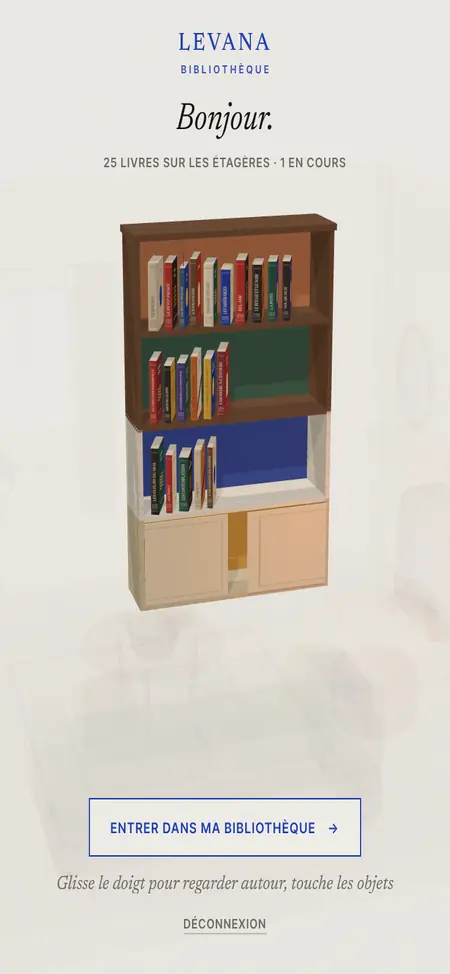
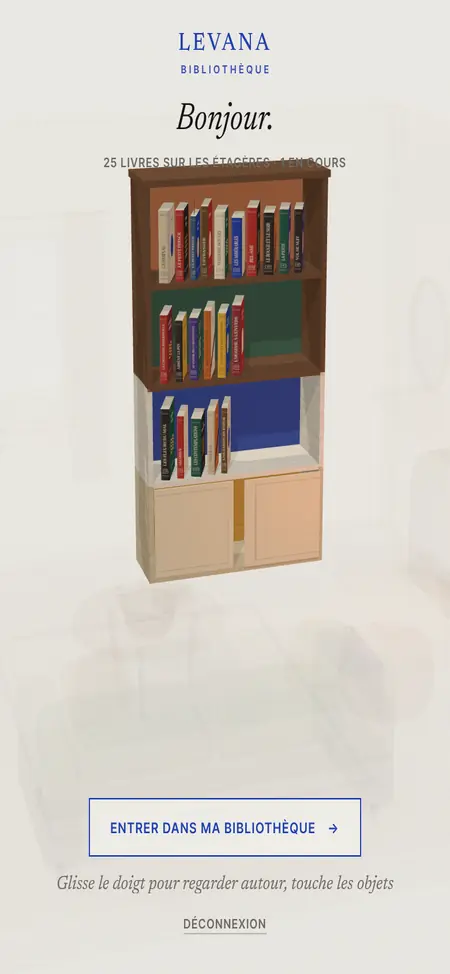
Téléphone : menu en bas comme une appli, rien en haut, étagères sans défilement
- Plus de défilement sur le côté : toute l'étagère tient dans la largeur ;
  les livres se serrent, puis rapetissent un peu sur une étagère très
  remplie (aussi sur ordinateur).
- Menu en bas, comme une appli : Salon, Chercher (retrouver un livre et
  « ranger par »), la Boutique au centre (gros bouton bleu), Étagères, et
  Panier avec le nombre de livres (il sort les livres en bas de l'écran).
- En haut, plus rien (ni logo ni boutons) : le mur prend toute la hauteur ;
  « Sommaire » et « Tout voir » deviennent deux ronds posés sur le mur.
- Le tuto de la télé suit le nouveau menu (textes et captures).

Claude-Session: https://claude.ai/code/session_01Tg9JuQWn64WBjX1JtYF8aa

Changed region(s): [[0.2489, 0.154, 0.7467, 0.6468]]

diff --git a/src/App.jsx b/src/App.jsx
@@ -73,6 +73,7 @@ function Library({ user, onSignOut }) {
   const [search, setSearch] = useState(false)
   const [searchOpen, setSearchOpen] = useState(false)
   const [scanner, setScanner] = useState(false)
+  const [findOpen, setFindOpen] = useState(false)   // téléphone : « Chercher » (retrouver un livre, ranger par)
   const [guide, setGuide] = useState(false)     // livres du panier sortis en bas de l'écran, prêts à ranger
   // salon d'accueil : 'first' à l'arrivée, 'back' quand on y retourne, null dans la bibliothèque
   const [salon, setSalon] = useState(() => (HAS_WEBGL && !salonSeen() ? 'first' : null))
@@ -263,7 +264,7 @@ function Library({ user, onSignOut }) {
           shelves={shelves} commitShelves={commitShelves} newShelfSignal={newShelfSignal}
           onOpen={openBook} onAdd={openSearch} locked={overlay} apiRef={bookcaseApi}
           onShelfClick={id => setShelvesOpen({ id })}
-          aside={basket.items.length > 0 ? (
+          aside={basket.items.length > 0 && !mobile ? (
             <BasketTray
               items={basket.items} shelves={effShelves} books={books} api={bookcaseApi} mobile={mobile}
               canDrop={HAS_WEBGL && manual} open={guide} onOpen={() => setGuide(true)} onClose={() => setGuide(false)}
@@ -272,6 +273,62 @@ function Library({ user, onSignOut }) {
           ) : null}
           highlightId={highlightId} focusId={focusId} onFocused={onFocused} emptyText={emptyText}
         />
+      )}
+
+      {/* Téléphone : le panier s'ouvre depuis l'onglet « Panier » (pas de panier sous le mur) */}
+      {mobile && basket.items.length > 0 && (
+        <BasketTray
+          bare items={basket.items} shelves={effShelves} books={books} api={bookcaseApi} mobile
+          canDrop={HAS_WEBGL && manual} open={guide} onOpen={() => setGuide(true)} onClose={() => setGuide(false)}
+          onDropBook={dropFromBasket} onPlace={placeGuided} onOpenBook={b => onPick(b, null)}
+        />
+      )}
+
+      {/* Téléphone : menu en bas, comme une appli (pas dans le salon, qui a le sien) */}
+      {mobile && !salon && (
+        <>
+          {findOpen && (
+            <div className="find-sheet grain" onPointerDown={e => e.stopPropagation()}>
+              <LibrarySearch books={books} shelves={effShelves} autoFocus up onPick={id => { setFindOpen(false); setFocusId(id) }} />
+              <label className="lbl find-sort">
+                <span>Ranger par</span>
+                <select value={sort} onChange={e => setSort(e.target.value)}>
+                  {SORTS.map(o => <option key={o.id} value={o.id}>{o.label}</option>)}
+                </select>
+              </label>
+            </div>
+          )}
+          {findOpen && <div className="find-backdrop" onPointerDown={() => setFindOpen(false)} />}
+          <nav className="tabbar" aria-label="Menu">
+            {HAS_WEBGL && (
+              <button type="button" className="tab" onClick={() => { setFindOpen(false); setGuide(false); setSalon('back') }}>
+                <svg viewBox="0 0 24 24" aria-hidden="true"><path d="M3.5 11.2L12 4l8.5 7.2M6 9.8V20h12V9.8M10 20v-5.5h4V20" /></svg>
+                <span>Salon</span>
+              </button>
+            )}
+            <button type="button" className={'tab' + (findOpen ? ' on' : '')} onClick={() => setFindOpen(o => !o)}>
+              <svg viewBox="0 0 24 24" aria-hidden="true"><circle cx="10.5" cy="10.5" r="6" /><path d="M15 15l5 5" /></svg>
+              <span>Chercher</span>
+            </button>
+            <button type="button" className="tab tab-shop" onClick={() => { setFindOpen(false); openSearch() }} aria-label="Boutique : ajouter des livres">
+              <span className="tab-shop-bubble">
+                <svg viewBox="0 0 24 24" aria-hidden="true"><path d="M5 8h14l-1.2 12H6.2L5 8zM9 8V6.5a3 3 0 016 0V8" /><path d="M12 11.5v5M9.5 14h5" /></svg>
+              </span>
+              <span>Boutique</span>
+            </button>
+            <button type="button" className={'tab' + (shelvesOpen ? ' on' : '')} onClick={() => { setFindOpen(false); setShelvesOpen({ id: null }) }}>
+              <svg viewBox="0 0 24 24" aria-hidden="true"><path d="M4 4v16M20 4v16M4 9h16M4 14.5h16M4 20h16M7 9V6M9 9V5.5M12 14.5v-3.5M14.5 14.5v-3" /></svg>
+              <span>Étagères</span>
+            </button>
+            <button type="button" className={'tab' + (guide ? ' on' : '')} onClick={() => { setFindOpen(false); if (basket.items.length) setGuide(g => !g); else openSearch() }}>
+              <span className="tab-ico">
+                <svg viewBox="0 0 24 24" aria-hidden="true"><path d="M3.5 10h17l-1.8 9.5H5.3L3.5 10zM8 10l3-5.5M16 10l-3-5.5M8.5 13.5v3M12 13.5v3M15.5 13.5v3" /></svg>
+                {basket.items.length > 0 && <span className="tab-badge" key={basket.items.length}>{basket.items.length}</span>}
+              </span>
+              <span>Panier</span>
+            </button>
+          </nav>
+        </>
       )}
 
       <footer className="footer-bar">

diff --git a/src/styles.css b/src/styles.css
@@ -1345,3 +1345,63 @@ canvas { -webkit-user-select: none; user-select: none; -webkit-touch-callout: no
   .salon-out { font-size: 9px; }
 }
 .add-btn { gap: 5px; }
+
+/* Téléphone : comme une appli — rien en haut, un menu en bas ------------------------------ */
+.tabbar, .find-sheet, .find-backdrop { display: none; }
+@media (max-width: 767px) {
+  .top-bar, .scene-tabs { display: none !important; }
+  .scene { padding-top: env(safe-area-inset-top, 0px); padding-bottom: calc(64px + env(safe-area-inset-bottom, 0px)); }
+  /* le bas de la bibliothèque : seulement Sommaire et Tout voir, posés sur le mur */
+  .scene-bottom { position: fixed; left: 0; right: 0; bottom: calc(72px + env(safe-area-inset-bottom, 0px)); z-index: 4; padding: 0 12px; pointer-events: none; }
+  .scene-bottom > * { pointer-events: auto; }
+  .scene-bottom .scene-caption { visibility: hidden; }
+  .scene-bottom .zoom-btn, .scene-bottom .toc-btn { background: var(--sheet); width: 40px; height: 40px; padding: 0; justify-content: center; border-radius: 50%; box-shadow: 0 6px 14px -8px rgba(20, 16, 10, 0.5); }
+  .tabbar {
+    position: fixed; left: 0; right: 0; bottom: 0; z-index: 56; display: grid; grid-template-columns: repeat(5, 1fr); align-items: end;
+    height: calc(64px + env(safe-area-inset-bottom, 0px)); padding: 0 6px env(safe-area-inset-bottom, 0px);
+    background-color: var(--sheet); border-top: 1px solid var(--rule-soft); box-shadow: 0 -10px 30px -22px rgba(20, 16, 10, 0.45);
+  }
+  .tab {
+    display: flex; flex-direction: column; align-items: center; justify-content: center; gap: 4px; height: 64px; color: var(--muted);
+    font-family: var(--sans); font-weight: 600; font-size: 9.5px; letter-spacing: 0.06em; text-transform: uppercase;
+    -webkit-tap-highlight-color: transparent; transition: color 0.2s;
+  }
+  .tab svg { width: 24px; height: 24px; fill: none; stroke: currentColor; stroke-width: 1.6; stroke-linecap: round; stroke-linejoin: round; transition: transform 0.3s cubic-bezier(.3, 1.6, .5, 1); }
+  .tab:active svg { transform: scale(0.86); }
+  .tab.on { color: var(--cobalt); }
+  .tab-ico { position: relative; display: inline-flex; }
+  .tab-badge {
+    position: absolute; top: -5px; right: -9px; min-width: 17px; height: 17px; padding: 0 4px; border-radius: 9px;
+    background: #C9614F; color: #fff; font-size: 9.5px; letter-spacing: 0; display: inline-flex; align-items: center; justify-content: center;
+    animation: countPop 0.5s cubic-bezier(.3, 1.8, .5, 1);
+  }
+  .tab-shop { color: var(--cobalt); }
+  .tab-shop-bubble {
+    display: inline-flex; align-items: center; justify-content: center; width: 54px; height: 54px; margin-top: -22px; border-radius: 50%;
+    background: var(--cobalt); color: #fff; box-shadow: 0 10px 20px -8px rgba(31, 63, 176, 0.65); border: 4px solid var(--sheet);
+    transition: transform 0.3s cubic-bezier(.3, 1.6, .5, 1);
+  }
+  .tab-shop:active .tab-shop-bubble { transform: scale(0.9); }
+  .tab-shop svg { width: 26px; height: 26px; }
+  .find-backdrop { display: block; position: fixed; inset: 0; z-index: 55; background: rgba(20, 16, 10, 0.18); }
+  .find-sheet {
+    display: flex; flex-direction: column; gap: 14px; position: fixed; left: 0; right: 0; z-index: 56;
+    bottom: calc(64px + env(safe-area-inset-bottom, 0px)); padding: 16px 16px 14px;
+    background-color: var(--sheet); border-top: 1px solid var(--rule); box-shadow: 0 -18px 30px -22px rgba(20, 16, 10, 0.45);
+    animation: findUp 0.4s cubic-bezier(.3, 1.2, .45, 1) both;
+  }
+  @keyframes findUp { from { transform: translateY(100%); } }
+  .find-sheet .lib-search { width: 100%; }
+  .find-sheet .lib-search input, .find-sheet .lib-search input:focus { width: 100%; height: 38px; font-size: 18px; padding-left: 24px; }
+  .find-sheet .ls-icon { width: 15px; height: 15px; }
+  .lib-search.up .ls-pop { top: auto; bottom: calc(100% + 10px); left: 0; transform: none; width: 100%; }
+  .find-sort { display: flex; align-items: center; justify-content: space-between; gap: 10px; color: var(--muted); }
+  .find-sort select { height: 34px; padding: 0 10px; border: 1px solid var(--rule); background: transparent; font-family: var(--sans); font-weight: 600; font-size: 11px; letter-spacing: 0.08em; text-transform: uppercase; color: var(--ink); }
+  /* rangée du panier : posée au-dessus du menu */
+  .tray { z-index: 57; }
+}
+@media (max-width: 767px) {
+  /* sans la barre du haut, le mur occupe toute la hauteur au-dessus du menu */
+  .scene { grid-template-rows: minmax(0, 1fr); }
+  .scene > .case-row, .scene > .scene-loading { grid-row: 1; }
+}

diff --git a/src/three/BookcaseScene.js b/src/three/BookcaseScene.js
@@ -341,7 +341,6 @@ export class BookcaseScene {
     const base = this.bases.get(id)
     if (!base) return false
     this.scrollToRow(base.row)
-    this._revealInRow(id)
     clearTimeout(this.spotTimer)
     this.spotTimer = setTimeout(() => {
       const e = this.books.get(id)
@@ -583,19 +582,29 @@ export class BookcaseScene {
     this.rowEnds = []
     this.rowsData.forEach((row, r) => {
       const y0 = this.rowBase(r)
-      const items = row.books.map(b => (b.placeholder ? { ph: true, t: AVG_T * 1.2, d: 0.6 } : { b, ...bookDims(b) }))
-      let need = 0
-      items.forEach((it, i) => { need += i ? (items[i - 1].t + it.t) / (2 * cb) : 0 })
-      const first = items[0] ? (items[0].t * cb + items[0].d * sb) / 2 : 0
-      const lastExt = items.length ? (items[items.length - 1].t * cb + items[items.length - 1].d * sb) / 2 : 0
-      const avail = CW - PADX - 0.12 - first - lastExt - need
-      const gap = this.layout.mobile ? GAP : items.length > 1 ? Math.max(0.012, Math.min(GAP, avail / (items.length - 1))) : GAP
+      const raw = row.books.map(b => (b.placeholder ? { ph: true, t: AVG_T * 1.2, d: 0.6, h: 0 } : { b, ...bookDims(b) }))
+      const span = list => {
+        let need = 0
+        list.forEach((it, i) => { need += i ? (list[i - 1].t + it.t) / (2 * cb) : 0 })
+        const first = list[0] ? (list[0].t * cb + list[0].d * sb) / 2 : 0
+        const lastExt = list.length ? (list[list.length - 1].t * cb + list[list.length - 1].d * sb) / 2 : 0
+        return { need, first, lastExt }
+      }
+      // toute l'étagère tient dans la largeur : les livres se serrent, puis rapetissent s'il le faut
+      const MIN_GAP = 0.012, room = CW - PADX - 0.12
+      const s0 = span(raw)
+      const full = s0.need + s0.first + s0.lastExt
+      const k = raw.length > 1 && full + MIN_GAP * (raw.length - 1) > room ? clamp((room - MIN_GAP * (raw.length - 1)) / full, 0.4, 1) : 1
+      const items = k < 1 ? raw.map(it => ({ ...it, t: it.t * k, d: it.d * k, h: it.h * k })) : raw
+      const { need, first, lastExt } = k < 1 ? span(items) : s0
+      const avail = room - first - lastExt - need
+      const gap = items.length > 1 ? Math.max(MIN_GAP, Math.min(GAP, avail / (items.length - 1))) : GAP
       let x = -CW / 2 + PADX + first
       items.forEach((it, i) => {
         if (i) x += (items[i - 1].t + it.t) / (2 * cb) + gap
         if (it.ph) return
         const zSpine = SD / 2 - 0.045
-        this.bases.set(it.b.id, { x, y: y0 + it.h / 2, z: zSpine - (it.d / 2) * cb, row: r })
+        this.bases.set(it.b.id, { x, y: y0 + it.h / 2, z: zSpine - (it.d / 2) * cb, row: r, k })
       })
       this.rowEnds[r] = items.length ? x + lastExt : -CW / 2 + PADX
     })
@@ -642,6 +651,7 @@ export class BookcaseScene {
       if (!base) continue
       e.base = { x: base.x, y: base.y, z: base.z }
       e.row = base.row
+      e.wrap.scale.setScalar(base.k || 1)     // étagère très remplie : livres un peu plus petits
       if (created) {
         const drop = this.intro || this.freshIds.has(id) ? Math.min(0.2, RH - e.h - 0.02) : 0
         e.x.snap(base.x); e.z.snap(base.z); e.yaw.snap(-BETA)
@@ -705,12 +715,7 @@ export class BookcaseScene {
       if (!p.moved && dist > (p.type === 'mouse' ? 6 : 10)) {
         p.moved = true
         clearTimeout(p.timer)
-        // téléphone : un geste plutôt horizontal sur une rangée trop longue la fait défiler
-        if (this.layout?.mobile && p.row != null && this._overflows(p.row) && Math.abs(e.clientX - p.x) > Math.abs(e.clientY - p.y)) {
-          const sp = this._offSpring(p.row)
-          p.panX = { r: p.row, x: e.clientX, off: sp.v, lastX: e.clientX, lastT: performance.now(), vel: 0 }
-          this._setHover(null)
-        }
+
         if (!p.panX && p.id && p.type === 'mouse' && this.cb.canDrag?.() && this.zoom.t > 0.5) { this.onHoverMove(e); this._startDrag(); return }
         if (p.panX) return
         // sinon on fait défiler le mur (on le « tire » du doigt ou de la souris)

diff --git a/src/components/Basket.jsx b/src/components/Basket.jsx
@@ -258,7 +258,7 @@ export function ShelfBasket({ items, shelves, defaultShelf, canDrop, api, mobile
  * en bas de l'écran. On glisse un livre sur une étagère (une place s'ouvre), ou on touche son
  * « + » pour choisir l'étagère (la plus probable en premier).
  */
-export function BasketTray({ items, shelves, books, api, mobile, canDrop, open, onOpen, onClose, onDropBook, onPlace, onOpenBook }) {
+export function BasketTray({ items, shelves, books, api, mobile, canDrop, open, onOpen, onClose, onDropBook, onPlace, onOpenBook, bare = false }) {
   const real = useMemo(() => shelves.filter(s => !s.pseudo), [shelves])
   const byId = useMemo(() => new Map(books.map(b => [b.id, b])), [books])
   const [picker, setPicker] = useState(null)        // livre dont on choisit l'étagère
@@ -350,18 +350,7 @@ export function BasketTray({ items, shelves, books, api, mobile, canDrop, open, 
   const sugg = picker ? suggestShelf(picker, real, byId, last) : null
   const ordered = sugg ? [real.find(s => s.id === sugg.shelfId), ...real.filter(s => s.id !== sugg.shelfId)].filter(Boolean) : real
 
-  return (
-    <aside className={'tray-bar' + (open ? ' is-open' : '')} aria-label="Mon panier">
-      <div className="tray-basket" onClick={() => !open && onOpen()} role="button" tabIndex={0} aria-label="Sortir les livres du panier">
-        <AnyBasket items={items} width={mobile ? 104 : 190} onBookClick={() => !open && onOpen()} />
-      </div>
-      <div className="tray-side">
-        <p className="tray-count">{n > 1 ? `${n} livres à ranger` : '1 livre à ranger'}</p>
-        {/* toujours là (invisible une fois ouvert) : la place du panier ne change pas, le mur ne bouge pas */}
-        <button type="button" className="lbl box filled tray-out" style={open ? { visibility: 'hidden' } : undefined} onClick={onOpen}>Sortir les livres</button>
-      </div>
-
-      {open && (
+  const tray = (
         <div className="tray grain" role="dialog" aria-label="Livres à ranger">
           <div className="tray-head">
             <p className="tray-hint">{canDrop ? 'Glisse un livre sur une étagère, ou touche +' : 'Touche + pour choisir l’étagère'}</p>
@@ -398,7 +387,22 @@ export function BasketTray({ items, shelves, books, api, mobile, canDrop, open, 
             </div>
           )}
         </div>
-      )}
+  )
+  // téléphone : pas de panier sous le mur (l'onglet « Panier » ouvre directement la rangée)
+  if (bare) return open ? tray : null
+
+  return (
+    <aside className={'tray-bar' + (open ? ' is-open' : '')} aria-label="Mon panier">
+      <div className="tray-basket" onClick={() => !open && onOpen()} role="button" tabIndex={0} aria-label="Sortir les livres du panier">
+        <AnyBasket items={items} width={mobile ? 104 : 190} onBookClick={() => !open && onOpen()} />
+      </div>
+      <div className="tray-side">
+        <p className="tray-count">{n > 1 ? `${n} livres à ranger` : '1 livre à ranger'}</p>
+        {/* toujours là (invisible une fois ouvert) : la place du panier ne change pas, le mur ne bouge pas */}
+        <button type="button" className="lbl box filled tray-out" style={open ? { visibility: 'hidden' } : undefined} onClick={onOpen}>Sortir les livres</button>
+      </div>
+
+      {open && tray}
     </aside>
   )
 }

diff --git a/src/three/tvTutorial.js b/src/three/tvTutorial.js
@@ -18,14 +18,14 @@ const SHOT_W = 450, SHOT_H = 974
 const SLIDES = [
   { title: 'Bienvenue dans ton salon', text: 'Glisse le doigt pour regarder autour de toi. Touche les objets : ils réagissent.', frames: ['salon-a', 'salon-b'] },
   { title: 'Entre dans ta bibliothèque', text: 'Touche la bibliothèque du salon : la caméra plonge et tu arrives devant tes étagères.', frames: ['enter-a', 'enter-b', 'enter-c'] },
-  { title: 'Ajoute un livre', text: '« + Ajouter un livre » : tape un titre, un auteur… ou scanne le code-barres au dos.', frames: ['add-a', 'add-b'] },
+  { title: 'Ajoute un livre', text: 'La Boutique, le gros bouton bleu en bas : tape un titre, un auteur… ou scanne le code-barres.', frames: ['add-a', 'add-b'] },
   { title: 'Remplis ton panier', text: 'Touche « + », ou reste appuyé sur un livre et glisse-le : le panier monte pour l’attraper.', frames: ['basket-a', 'basket-b', 'basket-c'] },
-  { title: 'Range tes livres', text: 'Touche le panier : tes livres sortent en bas de l’écran. Glisse-les sur une étagère, ou touche + pour la choisir.', frames: ['range-a', 'range-b', 'range-c'] },
-  { title: 'Tes étagères, à ton goût', text: '« Mes étagères » : crée, renomme, change le bois, la couleur du fond et les portes.', frames: ['shelves-a', 'shelves-b', 'shelves-c'] },
+  { title: 'Range tes livres', text: 'L’onglet « Panier » : tes livres sortent en bas de l’écran. Glisse-les sur une étagère, ou touche + pour la choisir.', frames: ['range-a', 'range-b', 'range-c'] },
+  { title: 'Tes étagères, à ton goût', text: 'L’onglet « Étagères » : crée, renomme, change le bois, la couleur du fond et les portes.', frames: ['shelves-a', 'shelves-b', 'shelves-c'] },
   { title: 'Déplace tes livres', text: 'Reste appuyé sur un livre, puis glisse-le à sa nouvelle place.', frames: ['move-a', 'move-b'] },
   { title: 'En cours, lu', text: 'Touche un livre : « En cours » glisse un marque-page entre ses pages, « Lu » le tamponne.', frames: ['read-a', 'read-b', 'read-c'] },
-  { title: 'Retrouve un livre', text: 'Tape quelques lettres dans « Retrouver un livre… » : la bibliothèque t’emmène jusqu’à lui.', frames: ['find-a', 'find-b'] },
-  { title: 'Reviens au salon', text: 'Le bouton « Salon », en haut à droite, te ramène ici. Bonne lecture !', frames: ['home-a', 'home-b', 'home-c'] },
+  { title: 'Retrouve un livre', text: 'L’onglet « Chercher » : tape quelques lettres, la bibliothèque t’emmène jusqu’au livre.', frames: ['find-a', 'find-b'] },
+  { title: 'Reviens au salon', text: 'L’onglet « Salon », en bas à gauche, te ramène ici. Bonne lecture !', frames: ['home-a', 'home-b', 'home-c'] },
 ]
 
 export const TUTO_STEPS = () => SLIDES.map(({ title, text }) => ({ title, text }))

diff --git a/src/components/LibrarySearch.jsx b/src/components/LibrarySearch.jsx
@@ -7,7 +7,7 @@ const norm = s => (s || '').normalize('NFD').replace(/[̀-ͯ]/g, '').toLowerCase
  * « Retrouver un livre » dans sa propre bibliothèque : on tape un titre ou un auteur,
  * on choisit, et la bibliothèque va jusqu'au livre (qui sort un instant de l'étagère).
  */
-export default function LibrarySearch({ books, shelves, onPick }) {
+export default function LibrarySearch({ books, shelves, onPick, autoFocus = false, up = false }) {
   const [q, setQ] = useState('')
   const [open, setOpen] = useState(false)
   const [active, setActive] = useState(0)
@@ -36,6 +36,7 @@ export default function LibrarySearch({ books, shelves, onPick }) {
   }, [q, books])
 
   useEffect(() => { setActive(0) }, [q])
+  useEffect(() => { if (autoFocus) setTimeout(() => input.current?.focus(), 60) }, [autoFocus])
   useEffect(() => {
     const onDown = e => { if (box.current && !box.current.contains(e.target)) setOpen(false) }
     window.addEventListener('pointerdown', onDown)
@@ -49,7 +50,7 @@ export default function LibrarySearch({ books, shelves, onPick }) {
   }
 
   return (
-    <div className="lib-search" ref={box}>
+    <div className={'lib-search' + (up ? ' up' : '')} ref={box}>
       <svg className="ls-icon" width="12" height="12" viewBox="0 0 12 12" aria-hidden="true"><circle cx="5" cy="5" r="4" stroke="currentColor" fill="none" /><path d="M8 8l3.5 3.5" stroke="currentColor" /></svg>
       <input
         ref={input} type="search" value={q} placeholder="Retrouver un livre…" spellCheck="false"
